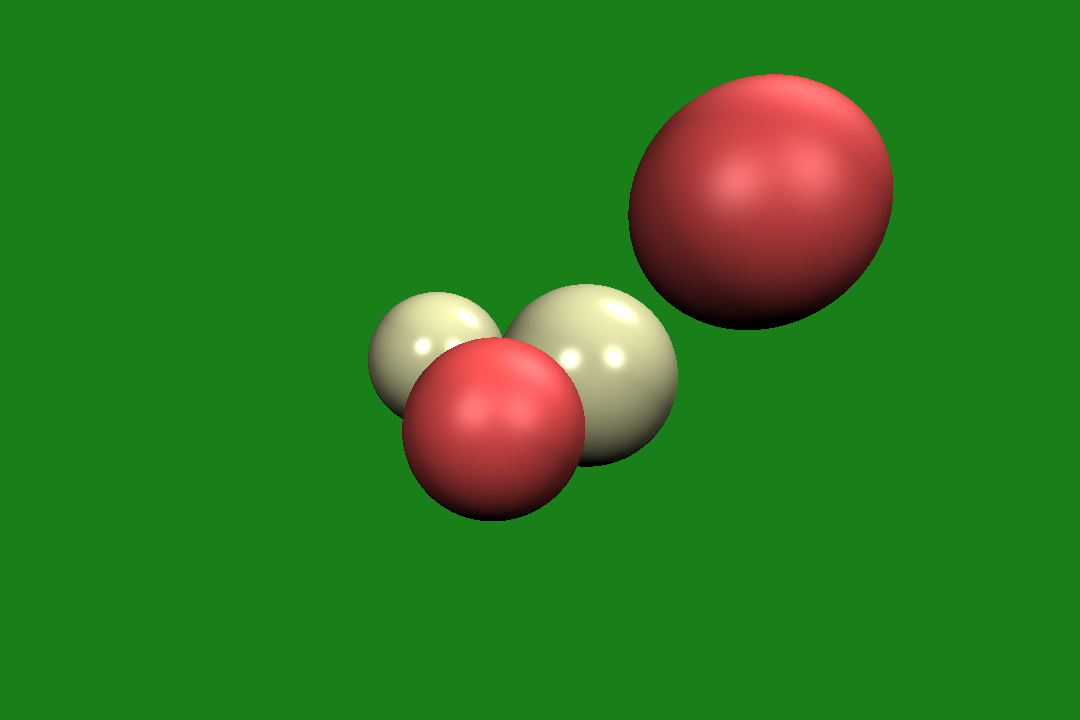
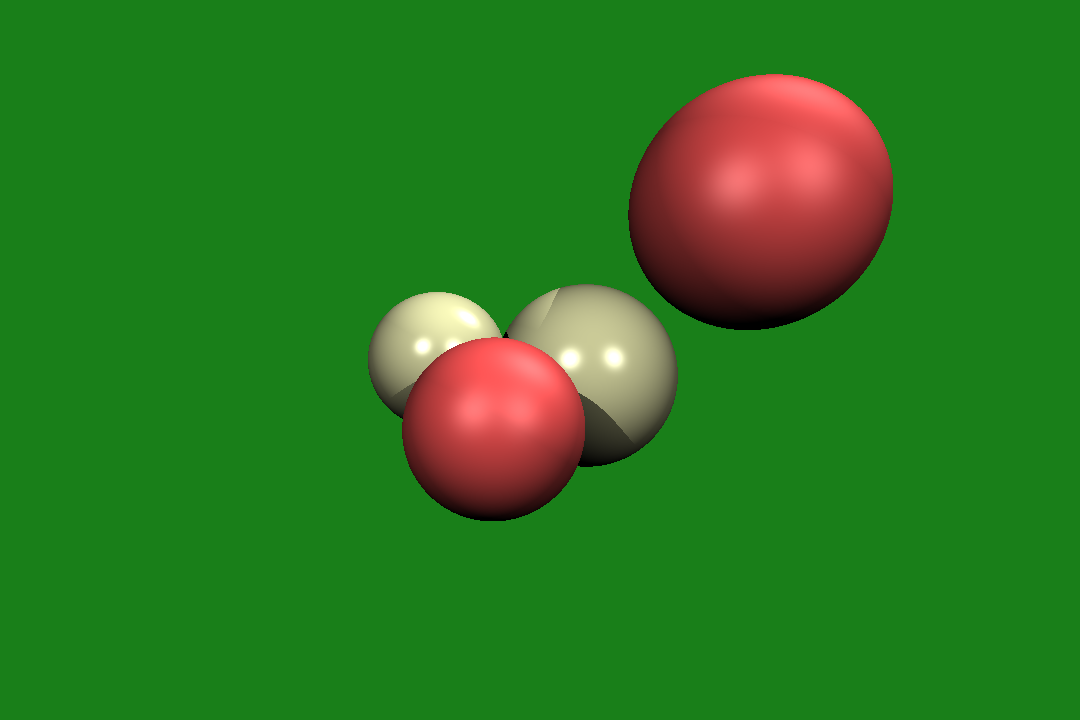
计算阴影

Changed region(s): [[0.4889, 0.3972, 0.6417, 0.55], [0.5194, 0.55, 0.5806, 0.6417], [0.3667, 0.5194, 0.3972, 0.55]]

diff --git a/raytracer.cpp b/raytracer.cpp
@@ -28,6 +28,19 @@ void tonemapping(Vec3f& c)
         c.z=c.z>255?255:(c.z<0?0:c.z);
 }
 
+bool shadow(const vector<Sphere>& spheres,const Vec3f& hit,const Vec3f& l,const Vec3f& n)
+{
+	bool isOccluded=false;
+	float distance=numeric_limits<float>::max();
+	Vec3f shadow_orig=l*n>0?hit+n*1e-3:hit-n*1e-3;
+	for(auto& sphere:spheres)
+	{
+		if(sphere.isRayIntersect(shadow_orig,l,distance))
+			isOccluded=true;
+	}
+	return isOccluded;
+}
+
 void intersect(const Vec3f& orig,const Vec3f& dir,const vector<Sphere>& spheres,float& distance,Vec3f& hit,Vec3f& norm,Material& mat)
 {
 	float dis=numeric_limits<float>::max();
@@ -59,6 +72,8 @@ Vec3f trace(const Vec3f& orig,const Vec3f& dir,const vector<Sphere>& spheres,
 		for(auto& pointLight:pointLights)
 		{
 			Vec3f l=(pointLight.center-hit).normalize();
+			if(shadow(spheres,hit,l,n))
+				continue;
 			diffIntensity+=pointLight.intensity*max(0.f,l*n);
 			specIntensity+=pointLight.intensity*powf(max(0.f,reflect(-l,n)*-dir),mat.specular);
 		}
